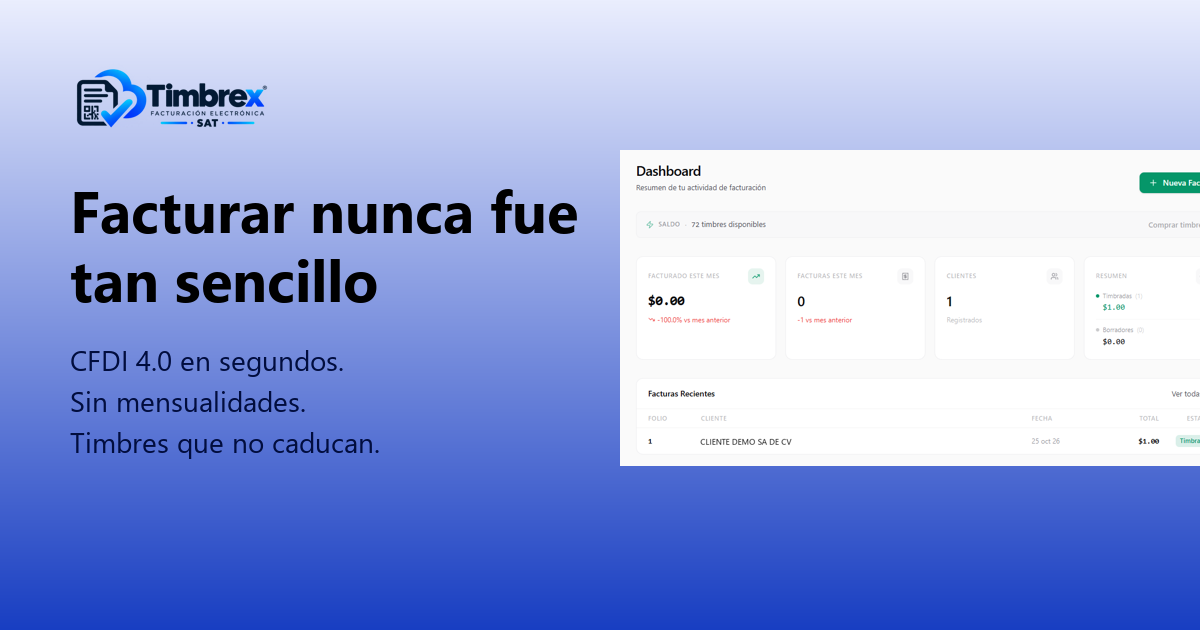
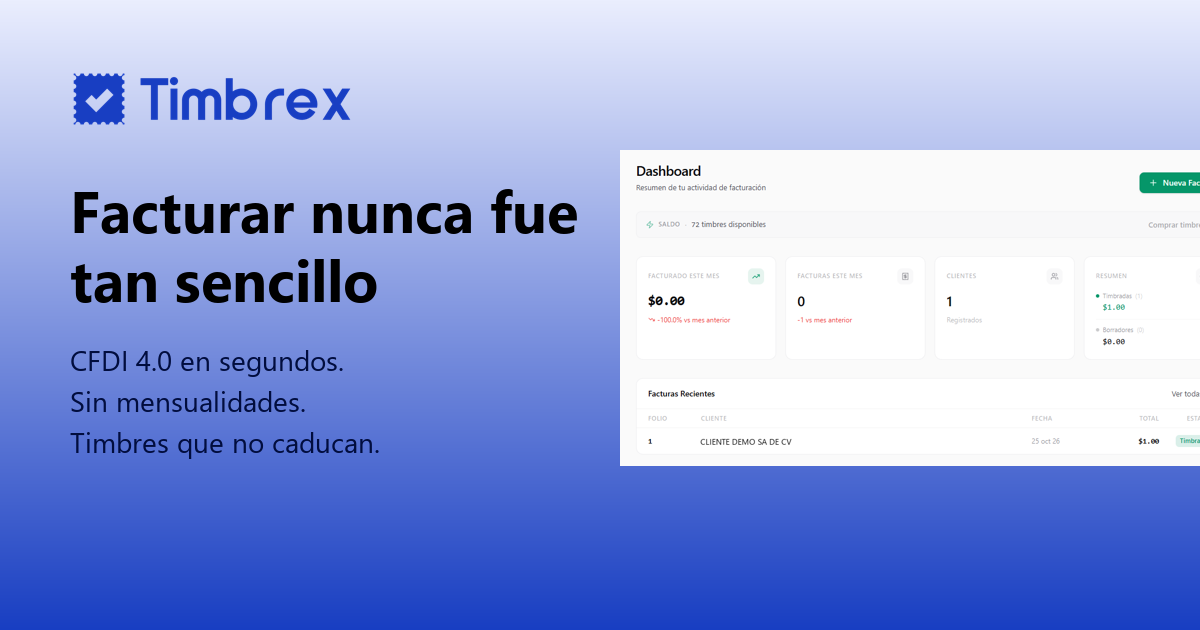
timbrex

Changed region(s): [[0.0617, 0.0905, 0.3083, 0.2111]]

diff --git a/src/sections/LogoTicker.tsx b/src/sections/LogoTicker.tsx
@@ -7,14 +7,14 @@ import acmeLogo from "@/assets/logo-acme.png";
 import celestialLogo from "@/assets/logo-celestial.png";
 import pulseLogo from "@/assets/logo-pulse.png";
 import apexLogo from "@/assets/logo-apex.png";
-import timbrexLogo from "@/assets/timbrexlogo.png";
 
 const logos = [
   { src: acmeLogo, alt: "Logo Acme" },
   { src: celestialLogo, alt: "Logo Celestial" },
   { src: pulseLogo, alt: "Logo Pulse" },
   { src: apexLogo, alt: "Logo Apex" },
-  { src: timbrexLogo, alt: "Logo Timbrex" },
+  // SVG from public/ (aspect 1040x256), so it needs explicit dimensions
+  { src: "/brand/timbrex-horizontal.svg", alt: "Logo Timbrex", width: 130, height: 32 },
 ];
 
 // Repeat the list so one pass is always wider than the container
@@ -37,13 +37,8 @@ export const LogoTicker = () => {
             }}
           >
             {/* Track rendered twice; shifting by -50% loops seamlessly */}
-            {[...track, ...track].map(({ src, alt }, index) => (
-              <Image
-                key={index}
-                src={src}
-                alt={alt}
-                className="logo-ticker-image"
-              />
+            {[...track, ...track].map((logo, index) => (
+              <Image key={index} {...logo} className="logo-ticker-image" />
             ))}
           </motion.div>
         </div>

diff --git a/src/app/timbrex/page.tsx b/src/app/timbrex/page.tsx
@@ -6,7 +6,6 @@ import { TimbrexPricing } from "@/sections/TimbrexPricing";
 import { BrowserFrame } from "@/components/BrowserFrame";
 import ArrowIcon from "@/assets/arrow-right.svg";
 import CheckIcon from "@/assets/check.svg";
-import timbrexLogo from "@/assets/timbrexlogo.png";
 import { siteConfig } from "@/constants";
 import {
   dashboardImage,
@@ -130,8 +129,10 @@ export default function TimbrexPage() {
           <div className="container">
             <div className="mx-auto max-w-[720px] text-center">
               <Image
-                src={timbrexLogo}
+                src="/brand/timbrex-horizontal.svg"
                 alt="Timbrex"
+                width={228}
+                height={56}
                 className="mx-auto h-14 w-auto"
                 priority
               />
